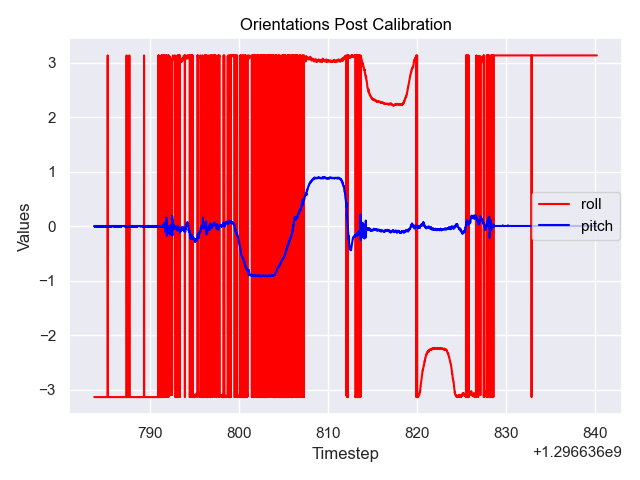
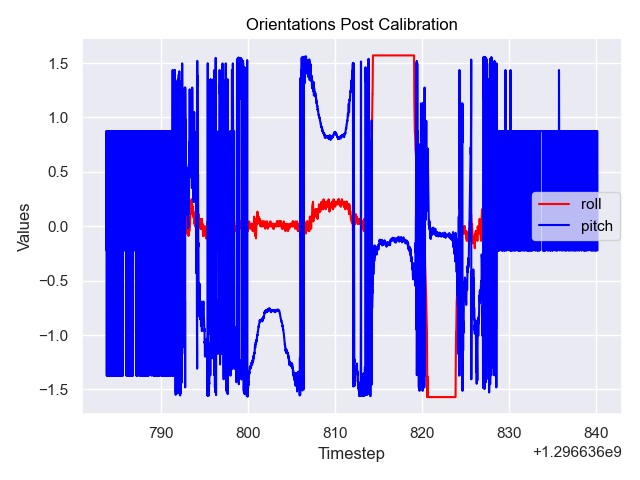
stuff

diff --git a/CS-6501_Behl/algorithm/hw2_p2_data/estimate_rot.py b/CS-6501_Behl/algorithm/hw2_p2_data/estimate_rot.py
@@ -49,7 +49,8 @@ def calibrate_sensors(accel, gyro, imu_T, rotation_matrices, vicon_T):
     imu_timesteps = imu_T[0]
     # plot the data
     # vicon_plot, roll, pitch, yaw = plotting_utils.plot_vicon_data(rotation_matrices = rotation_matrices, T = vicon_T)
-    # gyro_plot, Wx, Wy, Wz = plotting_utils.plot_gyroscope(gyro, imu_T)
+    gyro_plot, Wx, Wy, Wz = plotting_utils.plot_gyroscope(gyro, imu_T)
+    gyro_plot.show()
 
     Ax, Ay, Az, Wx, Wy, Wz = helpful_utils.parse_data(accel, gyro)
     
@@ -82,7 +83,7 @@ def calibrate_accelerometer(Ax, Ay, Az, rotation_matrices, vicon_timesteps, imu_
     true_Az = []
 
     for timestep in range(len(imu_timesteps)):
-        ground_truth = np.matmul(vicon_interpolated[:, :, timestep].T, g_vector)
+        ground_truth = np.matmul(vicon_interpolated[:, :, timestep], g_vector.T)
 
         true_Ax.append(ground_truth[0])
         true_Ay.append(ground_truth[1])
@@ -96,7 +97,7 @@ def calibrate_accelerometer(Ax, Ay, Az, rotation_matrices, vicon_timesteps, imu_
     beta_y = np.mean(Ay[:700])
     beta_z = np.mean(Az[:700])
     
-    best_param = least_squares(net_force_error, [1, 1, 1, beta_x, beta_y, beta_z], args = (Ax, Ay, Az, true_Ax, true_Ay, true_Az))
+    best_param = least_squares(net_force_error, [1, 1, 1], args = (Ax[700:], Ay[700:], Az[700:], true_Ax[700:], true_Ay[700:], true_Az[700:], beta_x, beta_y, beta_z))
 
     # # get the average of the stationary period of each linear acceleration
     # beta_x = np.average(Ax[:stationary_period])
@@ -109,21 +110,25 @@ def calibrate_accelerometer(Ax, Ay, Az, rotation_matrices, vicon_timesteps, imu_
     # best_params = results["x"]
     # best_params = np.concatenate((best_params, np.array([beta_x, beta_y, beta_z])))
 
-    return best_param["x"]
+    return np.concatenate((best_param["x"], [beta_x], [beta_y], [beta_z]))
 
 def calibrate_gyroscope():
+    
     return None
 
 # helper functions
-def net_force_error(parameters, Ax, Ay, Az, true_Ax, true_Ay, true_Az): # these are the raw ax, ay, and az
+def net_force_error(parameters, Ax, Ay, Az, true_Ax, true_Ay, true_Az, beta_x, beta_y, beta_z): # these are the raw ax, ay, and az
     
-    alpha_x, alpha_y, alpha_z, beta_x, beta_y, beta_z = parameters
+    alpha_x, alpha_y, alpha_z = parameters
 
     convert_Ax = -helpful_utils.convert_raw_to_value(Ax, alpha_x, beta_x)
     convert_Ay = -helpful_utils.convert_raw_to_value(Ay, alpha_y, beta_y)
     convert_Az = helpful_utils.convert_raw_to_value(Az, alpha_z, beta_z)
 
-    error = np.concatenate([true_Ax - convert_Ax, true_Ay - convert_Ay, true_Az - convert_Az])
+    # error = np.concatenate([true_Ax - convert_Ax, true_Ay - convert_Ay, true_Az - convert_Az])
+    mag = np.sqrt(convert_Ax**2 + convert_Ay**2 + convert_Az**2)
+    avg_mag = np.mean(mag)
+    error = np.sqrt((avg_mag - 9.81)**2)
     
     return error
 

diff --git a/CS-6501_Behl/algorithm/hw2_p2_data/plotting_utils.py b/CS-6501_Behl/algorithm/hw2_p2_data/plotting_utils.py
@@ -56,8 +56,8 @@ def plot_accelerometer(Ax, Ay, Az, T, conversion_param = [1, 2, 3, 4, 5, 6], tra
 
     for timestep in range(len(T)): # get all the linear accelerations
 
-        ax = helpful_utils.convert_raw_to_value(Ax[timestep], alpha = alpha_x, beta = beta_x)
-        ay = helpful_utils.convert_raw_to_value(Ay[timestep], alpha = alpha_y, beta = beta_y)
+        ax = -helpful_utils.convert_raw_to_value(Ax[timestep], alpha = alpha_x, beta = beta_x)
+        ay = -helpful_utils.convert_raw_to_value(Ay[timestep], alpha = alpha_y, beta = beta_y)
         az = helpful_utils.convert_raw_to_value(Az[timestep], alpha = alpha_z, beta = beta_z)
 
         convert_ax.append(ax)

diff --git a/CS-6501_Behl/algorithm/hw2_p2_data/helpful_utils.py b/CS-6501_Behl/algorithm/hw2_p2_data/helpful_utils.py
@@ -40,10 +40,10 @@ def interpolate_rotations(rotation_matrices, vicon_T, imu_T):
 def get_roll_and_pitch_from_acceleration(ax, ay, az):
     g = 9.81
 
-    # phi = math.asin(np.clip(ay/g, -1, 1))
-    # theta = math.atan(ax/az)
-    phi = np.arctan2(ay, az)  # Roll
-    theta = np.arctan2(-ax, np.sqrt(ay**2 + az**2))
+    phi = math.asin(np.clip(ay/g, -1, 1))
+    theta = math.atan(ax/az)
+    # phi = np.arcsin(ay, az)  # Roll
+    # theta = np.arctan2(-ax, np.sqrt(ay**2 + az**2))
 
     return phi, theta
 

diff --git a/CS-6501_Behl/algorithm/HW-2_Q1.py b/CS-6501_Behl/algorithm/HW-2_Q1.py
@@ -3,7 +3,7 @@ import matplotlib.pyplot as plt
 import math 
 import statistics
 
-def main(seed = 17):
+def main(seed = 42):
     np.random.seed(seed)
 
     distribution_param = {} # stores the distribution parameters
